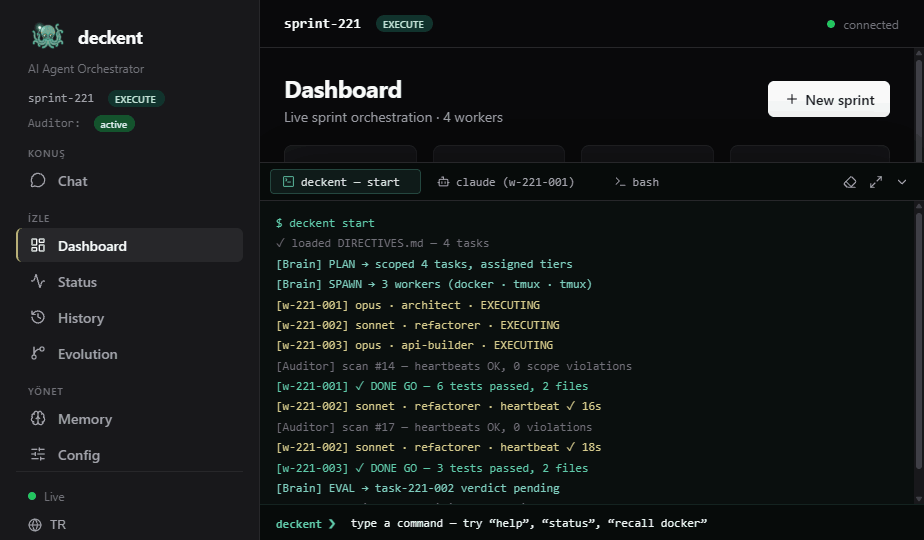
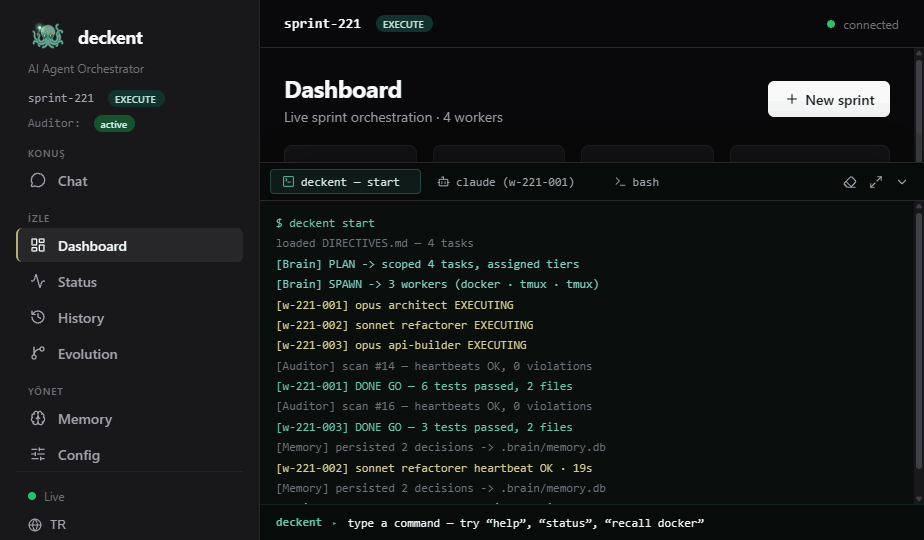
docs(design): web-console handoff v2 — assets + colors_and_type.css + clean terminal
Claude-design geri dönüşü tam paket: assets/ (decko-conductor-glow + decko-mascot + favicon + verhex-logo PNG), colors_and_type.css (temel token kaynağı — reference standalone render için şarttı), temiz terminal screen (emoji yok, düz monospace), güncel README/reference. FAZ 5 mockup-fidelity için kaynak.

Changed region(s): [[0.303, 0.4444, 0.6667, 0.9185], [0.303, 0.9481, 0.7576, 0.9778]]

diff --git a/docs/design/web-console/colors_and_type.css b/docs/design/web-console/colors_and_type.css
@@ -1,0 +1,227 @@
+/* ============================================================================
+   DECKO DESIGN SYSTEM — colors_and_type.css
+   deckent — AI agent orchestration CLI. Mascot "Decko", a circuit kraken.
+   Identity: clean, technical, developer-first, terminal-native.
+
+   Two palettes live here, intentionally:
+   1) BRAND   — drawn from the Decko mascot (teal / gold / ink). Identity,
+                marketing, logos, hero moments, accents.
+   2) PRODUCT — the shipped web dashboard's shadcn dark-zinc theme with a
+                functional blue accent + status semantics. Use for any
+                recreation of the actual app UI.
+
+   Load JetBrains Mono (the terminal-native signature face) before this file:
+   <link rel="preconnect" href="https://fonts.googleapis.com">
+   <link href="https://fonts.googleapis.com/css2?family=JetBrains+Mono:wght@400;500;600;700&display=swap" rel="stylesheet">
+   ============================================================================ */
+
+:root {
+  /* ---- BRAND PALETTE (sampled from the official flat-vector Decko) ----- */
+  --decko-teal:        #54A89C;  /* primary brand — the kraken's body       */
+  --decko-teal-bright: #6FBCAE;  /* lighter body highlight                  */
+  --decko-teal-deep:   #246060;  /* deep teal — the mascot's outline stroke */
+  --decko-gold:        #C0B46C;  /* secondary brand — circuit traces        */
+  --decko-gold-soft:   #D6CB8C;  /* lighter gold                            */
+  --decko-eye:         #1E5A52;  /* deep teal of the eyes                   */
+  --decko-ink:         #173B3B;  /* darkest teal-ink (deep shadow / text)   */
+
+  /* Brand tints for surfaces / washes */
+  --decko-teal-100:    #E7F1ED;  /* the warm off-white lockup background    */
+  --decko-teal-200:    #C4E0D8;
+  --decko-gold-100:    #F4EEDA;
+
+  /* ---- PRODUCT UI: ZINC SCALE (shadcn dark theme, as shipped) --------- */
+  --zinc-50:   #fafafa;
+  --zinc-100:  #f4f4f5;
+  --zinc-200:  #e4e4e7;
+  --zinc-300:  #d4d4d8;
+  --zinc-400:  #a1a1aa;
+  --zinc-500:  #71717a;
+  --zinc-600:  #52525b;
+  --zinc-700:  #3f3f46;
+  --zinc-800:  #27272a;
+  --zinc-900:  #18181b;
+  --zinc-950:  #09090b;
+
+  /* ---- PRODUCT SEMANTIC TOKENS (mirror src/dashboard index.css) ------- */
+  --background:            #09090b;  /* app canvas (zinc-950)              */
+  --foreground:            #fafafa;  /* primary text (zinc-50)            */
+  --surface:               #18181b;  /* sidebar / panels (zinc-900)       */
+  --card:                  #09090b;  /* card bg (matches canvas)          */
+  --card-elevated:         #18181b;  /* worker / data cards               */
+  --card-foreground:       #fafafa;
+  --popover:               #09090b;
+  --primary:               #fafafa;  /* shadcn "primary" = near-white     */
+  --primary-foreground:    #18181b;
+  --secondary:             #27272a;  /* zinc-800                          */
+  --secondary-foreground:  #fafafa;
+  --muted:                 #27272a;
+  --muted-foreground:      #a1a1aa;  /* secondary text (zinc-400)         */
+  --subtle-foreground:     #71717a;  /* tertiary text (zinc-500)          */
+  --accent-surface:        #27272a;
+  --border:                #27272a;  /* zinc-800 — all hairlines          */
+  --border-strong:         #3f3f46;  /* zinc-700                          */
+  --input:                 #27272a;
+  --ring:                  #d4d4d8;
+
+  /* ---- FUNCTIONAL ACCENT (the dashboard's interactive blue) ----------- */
+  --accent-blue:        #3B82F6;   /* blue-500 — active nav, primary CTA  */
+  --accent-blue-600:    #2563EB;   /* blue-600 — chat send, hover         */
+  --accent-blue-700:    #1D4ED8;
+  --accent-blue-bg:     #1E3A8A;   /* blue-900 — info badge bg            */
+  --accent-blue-fg:     #DBEAFE;   /* blue-100 — info badge text          */
+
+  /* ---- STATUS SEMANTICS (worker / sprint states) --------------------- */
+  --status-info:        #3B82F6;   /* EXECUTING / info  (blue-500)        */
+  --status-success:     #22C55E;   /* DONE / GO         (green-500)       */
+  --status-success-bg:  #14532D;   /* green-900                           */
+  --status-success-fg:  #DCFCE7;   /* green-100                           */
+  --status-danger:      #EF4444;   /* NO_GO / ERROR     (red-500)         */
+  --status-danger-bg:   #7F1D1D;   /* red-900                             */
+  --status-danger-fg:   #FEE2E2;   /* red-100                             */
+  --status-warning:     #EAB308;   /* PAUSED            (yellow-500)      */
+  --status-warning-bg:  #78350F;   /* amber-900                           */
+  --status-warning-fg:  #FEF3C7;   /* amber-100                           */
+  --status-idle:        #3f3f46;   /* IDLE              (zinc-700)        */
+
+  /* ---- PROVIDER / BACKEND ACCENTS (routing, worker badges) ----------- */
+  --provider-claude:    #D97757;   /* Anthropic clay                      */
+  --provider-codex:     #10A37F;   /* OpenAI green                        */
+  --provider-gemini:    #4285F4;   /* Google blue                         */
+  --backend-docker:     #3B82F6;   /* docker badge (blue)                 */
+  --backend-tmux:       #22C55E;   /* tmux badge (green)                  */
+  --backend-subprocess: #F97316;   /* subprocess badge (orange)           */
+
+  /* ========================================================================
+     TYPOGRAPHY
+     The shipped product UI renders in a system-ui stack; the terminal-native
+     signature face is a monospace (JetBrains Mono here — see README caveat).
+     ====================================================================== */
+  --font-sans: system-ui, -apple-system, "Segoe UI", Roboto, Helvetica, Arial, sans-serif;
+  --font-mono: "JetBrains Mono", ui-monospace, "SF Mono", SFMono-Regular, Menlo, Consolas, "Liberation Mono", monospace;
+
+  /* Type scale (rem; root 16px) — matches the dashboard's Tailwind usage */
+  --text-2xs:  0.625rem;  /* 10px — micro badges, timestamps              */
+  --text-xs:   0.75rem;   /* 12px — meta, labels, captions                */
+  --text-sm:   0.875rem;  /* 14px — body, nav, table, controls (default)  */
+  --text-base: 1rem;      /* 16px — base body                             */
+  --text-lg:   1.125rem;  /* 18px — card titles, brand wordmark           */
+  --text-xl:   1.25rem;   /* 20px — section headings                      */
+  --text-2xl:  1.5rem;    /* 24px — page titles                           */
+  --text-3xl:  1.875rem;  /* 30px — hero / stat numerals                  */
+  --text-4xl:  2.25rem;   /* 36px — display                               */
+  --text-5xl:  3rem;      /* 48px — large display                         */
+
+  --weight-normal:   400;
+  --weight-medium:   500;
+  --weight-semibold: 600;
+  --weight-bold:     700;
+
+  --leading-tight:  1.15;
+  --leading-snug:   1.35;
+  --leading-normal: 1.55;
+
+  --tracking-tight: -0.02em;  /* wordmark, big numerals                   */
+  --tracking-wide:  0.08em;   /* uppercase nav-group eyebrows             */
+
+  /* ---- SPACING (Tailwind 4px base) ----------------------------------- */
+  --space-1:  0.25rem;  /* 4px  */
+  --space-2:  0.5rem;   /* 8px  */
+  --space-3:  0.75rem;  /* 12px */
+  --space-4:  1rem;     /* 16px */
+  --space-6:  1.5rem;   /* 24px — card padding, content gutters           */
+  --space-8:  2rem;     /* 32px */
+  --space-12: 3rem;     /* 48px */
+
+  /* ---- RADII (shadcn --radius: 0.5rem base) -------------------------- */
+  --radius-sm:   0.25rem;  /* 4px  — badges-square, small chips           */
+  --radius-md:   0.375rem; /* 6px  — buttons, inputs, nav links           */
+  --radius-lg:   0.5rem;   /* 8px  — cards (base --radius)                */
+  --radius-xl:   0.75rem;  /* 12px — modals, large panels                 */
+  --radius-full: 9999px;   /* pills, badges, status dots, avatars         */
+
+  /* ---- ELEVATION (dark UI: low-spread, deep shadows) ----------------- */
+  --shadow-sm: 0 1px 2px 0 rgb(0 0 0 / 0.4);
+  --shadow-md: 0 4px 12px -2px rgb(0 0 0 / 0.5);
+  --shadow-lg: 0 10px 24px -4px rgb(2 2 5 / 0.6);   /* worker cards        */
+
+  /* ---- MOTION -------------------------------------------------------- */
+  --ease-standard: cubic-bezier(0.4, 0, 0.2, 1);
+  --dur-fast:   150ms;
+  --dur-normal: 200ms;   /* nav, hover, theme toggle (transition-all 200) */
+  --dur-slow:   300ms;   /* phase-timeline node transitions              */
+}
+
+/* ============================================================================
+   SEMANTIC TYPE CLASSES — apply directly or copy the rules
+   ============================================================================ */
+.ds-display {
+  font-family: var(--font-sans);
+  font-size: var(--text-4xl);
+  font-weight: var(--weight-bold);
+  line-height: var(--leading-tight);
+  letter-spacing: var(--tracking-tight);
+}
+.ds-h1 {
+  font-family: var(--font-sans);
+  font-size: var(--text-2xl);
+  font-weight: var(--weight-bold);
+  line-height: var(--leading-tight);
+  letter-spacing: var(--tracking-tight);
+}
+.ds-h2 {
+  font-family: var(--font-sans);
+  font-size: var(--text-xl);
+  font-weight: var(--weight-semibold);
+  line-height: var(--leading-snug);
+}
+.ds-h3 {
+  font-family: var(--font-sans);
+  font-size: var(--text-lg);
+  font-weight: var(--weight-semibold);
+  line-height: var(--leading-snug);
+  letter-spacing: var(--tracking-tight);
+}
+.ds-body {
+  font-family: var(--font-sans);
+  font-size: var(--text-sm);
+  font-weight: var(--weight-normal);
+  line-height: var(--leading-normal);
+  color: var(--foreground);
+}
+.ds-meta {
+  font-family: var(--font-sans);
+  font-size: var(--text-xs);
+  color: var(--muted-foreground);
+}
+.ds-eyebrow {
+  font-family: var(--font-sans);
+  font-size: var(--text-2xs);
+  font-weight: var(--weight-semibold);
+  text-transform: uppercase;
+  letter-spacing: var(--tracking-wide);
+  color: var(--subtle-foreground);
+}
+.ds-wordmark {
+  font-family: var(--font-sans);
+  font-size: var(--text-lg);
+  font-weight: var(--weight-bold);
+  letter-spacing: var(--tracking-tight);
+  color: var(--foreground);
+}
+/* Monospace — IDs, sprint refs, code, terminal. The terminal-native voice. */
+.ds-mono {
+  font-family: var(--font-mono);
+  font-size: var(--text-sm);
+  font-weight: var(--weight-normal);
+  font-feature-settings: "liga" 0;
+}
+.ds-code {
+  font-family: var(--font-mono);
+  font-size: var(--text-xs);
+  background: var(--surface);
+  border: 1px solid var(--border);
+  border-radius: var(--radius-sm);
+  padding: 0.1em 0.4em;
+  color: var(--foreground);
+}

diff --git a/docs/design/web-console/reference/Terminal.jsx b/docs/design/web-console/reference/Terminal.jsx
@@ -1,6 +1,7 @@
 /* Terminal.jsx — interactive dockable web terminal.
    Multi-session tabs, live-streaming log tail, a working command input
-   (help / status / recall / clear / start), collapse + maximize. */
+   (help / status / recall / clear / start), collapse + maximize.
+   Clean monospace glyphs only — no emoji-presentation characters. */
 const { useState, useEffect, useRef, useCallback } = React;
 
 const SESSIONS = {
@@ -8,36 +9,36 @@ const SESSIONS = {
     label: "deckent — start", icon: "square-terminal",
     base: [
       { t: "prompt", txt: "$ deckent start" },
-      { t: "dim", txt: "✓ loaded DIRECTIVES.md — 4 tasks" },
-      { t: "teal", txt: "[Brain] PLAN  → scoped 4 tasks, assigned tiers" },
-      { t: "teal", txt: "[Brain] SPAWN → 3 workers (docker · tmux · tmux)" },
-      { t: "gold", txt: "[w-221-001] opus     · architect      · EXECUTING" },
-      { t: "gold", txt: "[w-221-002] sonnet   · refactorer     · EXECUTING" },
-      { t: "gold", txt: "[w-221-003] opus     · api-builder    · EXECUTING" },
-      { t: "dim", txt: "[Auditor] scan #14 — heartbeats OK, 0 scope violations" },
-      { t: "ok", txt: "[w-221-001] ✓ DONE  GO — 6 tests passed, 2 files" },
+      { t: "dim", txt: "loaded DIRECTIVES.md — 4 tasks" },
+      { t: "teal", txt: "[Brain] PLAN  -> scoped 4 tasks, assigned tiers" },
+      { t: "teal", txt: "[Brain] SPAWN -> 3 workers (docker · tmux · tmux)" },
+      { t: "gold", txt: "[w-221-001] opus     architect      EXECUTING" },
+      { t: "gold", txt: "[w-221-002] sonnet   refactorer     EXECUTING" },
+      { t: "gold", txt: "[w-221-003] opus     api-builder    EXECUTING" },
+      { t: "dim", txt: "[Auditor] scan #14 — heartbeats OK, 0 violations" },
+      { t: "ok", txt: "[w-221-001] DONE  GO — 6 tests passed, 2 files" },
     ],
     live: [
       { t: "dim", txt: "[Auditor] scan #§ — heartbeats OK, 0 violations" },
-      { t: "gold", txt: "[w-221-002] sonnet   · refactorer     · heartbeat ✓ §s" },
-      { t: "teal", txt: "[Brain] EVAL  → task-221-002 verdict pending" },
-      { t: "ok", txt: "[w-221-003] ✓ DONE  GO — 3 tests passed, 2 files" },
-      { t: "dim", txt: "[Memory] persisted 2 decisions → .brain/memory.db" },
+      { t: "gold", txt: "[w-221-002] sonnet   refactorer     heartbeat OK · §s" },
+      { t: "teal", txt: "[Brain] EVAL  -> task-221-002 verdict pending" },
+      { t: "ok", txt: "[w-221-003] DONE  GO — 3 tests passed, 2 files" },
+      { t: "dim", txt: "[Memory] persisted 2 decisions -> .brain/memory.db" },
     ],
   },
   claude: {
     label: "claude (w-221-001)", icon: "bot",
     base: [
-      { t: "dim", txt: "● claude-code · w-221-001 · architect" },
-      { t: "plain", txt: "Reading src/memory/ … 6 files" },
-      { t: "teal", txt: "⏺ Edit  src/memory/fts5.ts  (+48 −6)" },
-      { t: "teal", txt: "⏺ Write tests/memory.fts5.test.ts  (+92)" },
-      { t: "ok", txt: "✓ 6 tests passed in 1.8s" },
+      { t: "dim", txt: "claude-code · w-221-001 · architect" },
+      { t: "plain", txt: "reading src/memory/ … 6 files" },
+      { t: "teal", txt: "edit   src/memory/fts5.ts             (+48 -6)" },
+      { t: "teal", txt: "write  tests/memory.fts5.test.ts      (+92)" },
+      { t: "ok", txt: "6 tests passed in 1.8s" },
     ],
     live: [
-      { t: "plain", txt: "Thinking… resolving fts5 tokenizer config" },
-      { t: "teal", txt: "⏺ Edit  src/memory/decay.ts  (+12 −3)" },
-      { t: "dim", txt: "context: 41k / 200k tokens" },
+      { t: "plain", txt: "thinking… resolving fts5 tokenizer config" },
+      { t: "teal", txt: "edit   src/memory/decay.ts            (+12 -3)" },
+      { t: "dim", txt: "context 41k / 200k tokens" },
     ],
   },
   bash: {
@@ -150,7 +151,7 @@ function Terminal() {
             {feeds[active].map((l, i) => <div key={i}><span className={CLS[l.t] || ""}>{l.txt}</span></div>)}
           </div>
           <form className="dock-input" onSubmit={submit}>
-            <span className="term-prompt">deckent ❯</span>
+            <span className="term-prompt">deckent</span><span className="term-caret">&#9656;</span>
             <input value={input} onChange={(e) => setInput(e.target.value)} spellCheck="false" autoComplete="off"
                    placeholder="type a command — try “help”, “status”, “recall docker”" />
           </form>

diff --git a/docs/design/web-console/reference/dashboard.css b/docs/design/web-console/reference/dashboard.css
@@ -287,10 +287,11 @@ body {
 .dock-btn { background: none; border: none; color: var(--muted-foreground); cursor: pointer; padding: 5px; border-radius: var(--radius-sm); display: flex; align-items: center; transition: all var(--dur-fast); }
 .dock-btn svg { width: 14px; height: 14px; }
 .dock-btn:hover { background: var(--secondary); color: var(--gold-soft); }
-.dock-body { font-family: var(--font-mono); font-size: var(--text-xs); line-height: 1.7; padding: 12px 16px; height: 158px; overflow-y: auto; color: #cdd9d6; }
+.dock-body { font-family: var(--font-mono); font-size: var(--text-xs); line-height: 1.7; padding: 12px 16px; height: 158px; overflow-y: auto; color: #cdd9d6; font-variant-emoji: text; white-space: pre-wrap; }
 .dock.max .dock-body { flex: 1; min-height: 0; height: auto; }
-.dock-input { display: flex; align-items: center; gap: 9px; padding: 9px 16px; border-top: 1px solid rgba(84,168,156,.14); background: #070b0a; }
+.dock-input { display: flex; align-items: center; gap: 7px; padding: 9px 16px; border-top: 1px solid rgba(84,168,156,.14); background: #070b0a; font-variant-emoji: text; }
 .dock-input .term-prompt { font-family: var(--font-mono); font-size: var(--text-xs); font-weight: 600; flex-shrink: 0; }
+.dock-input .term-caret { color: var(--accent-blue); font-size: 10px; flex-shrink: 0; margin-left: -3px; }
 .dock-input input { flex: 1; background: transparent; border: none; outline: none; color: #eafaf5; font-family: var(--font-mono); font-size: var(--text-xs); caret-color: var(--accent-blue); }
 .dock-input input::placeholder { color: #4f6a65; }
 .term-prompt { color: #5fcaa9; }

diff --git a/docs/design/web-console/README.md b/docs/design/web-console/README.md
@@ -216,9 +216,20 @@ below. Recreate pixel-faithfully using your existing shadcn/Tailwind setup.
   interval appends lines. In production, replace mocked feeds/sim with your SSE
   stream and real command execution.
 
-## Assets
-- Decko mascot: `assets/decko-conductor-glow.png` (sidebar brand), `decko-mascot.png`,
-  favicon `assets/favicon.png`. Verhex mark `assets/verhex-logo.png`.
+## Assets (`assets/`)
+Brand images used by the console are bundled in `assets/` (so `reference/`
+renders standalone — its `../assets/…` paths resolve here):
+
+| File | Used by | Where |
+|------|---------|-------|
+| `assets/decko-conductor-glow.png` | `reference/Sidebar.jsx` | sidebar brand mark (40px) |
+| `assets/favicon.png` | `reference/index.html` | favicon |
+| `assets/decko-mascot.png` | (brand, courtesy) | alt mascot / marketing |
+| `assets/verhex-logo.png` | (brand, courtesy) | Verhex parent attribution |
+
+In your real app, keep using your existing brand assets — these are provided so
+the reference renders and so you can match the exact sidebar mark.
+
 - Icons: **Lucide** (already used by the app). Names referenced: `cpu, gem, zap,
   leaf, container, terminal, square-terminal, bot, hard-hat, file-code-2, loader,
   check-check, clock, activity, skull, chevron-right/-down/-up, eraser,
@@ -238,9 +249,18 @@ below. Recreate pixel-faithfully using your existing shadcn/Tailwind setup.
 | `App.jsx` | Shell, routing, mobile nav, sprint simulation |
 
 Plus, at the package root:
+- `colors_and_type.css` — the base design-system tokens the reference consumes
+  (zinc neutrals, status colors, type scale). `reference/index.html` links it.
 - `deckent-theme.css` — paste-ready shadcn `.dark` variables (teal/gold).
 - `deckent-theme.tailwind.js` — `theme.extend` fonts + brand/gold colors + the
   blue→brand find/replace map.
+- `assets/` — brand images used by the reference (see Assets above).
+
+### Preview the reference
+The `reference/` bundle is **self-contained** — open `reference/index.html` in a
+browser (no build step; React/Babel/Lucide load from CDN). The terminal uses
+**clean monospace glyphs only** (no emoji-presentation characters), with
+`font-variant-emoji: text` + `white-space: pre-wrap` so columns stay aligned.
 
 ## Screenshots (`screens/`)
 Hi-fi reference captures of the re-themed console (1920-wide, dark teal/gold):
